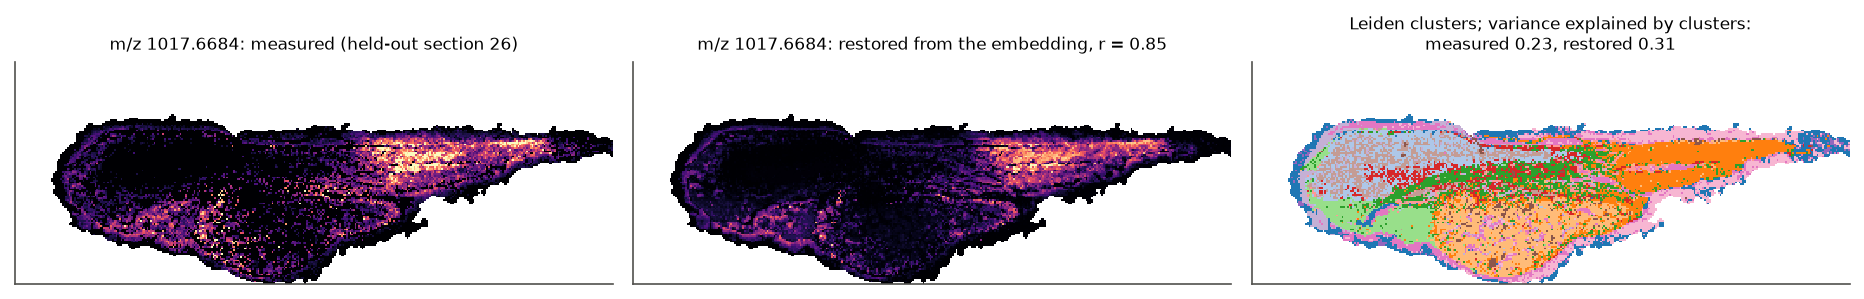
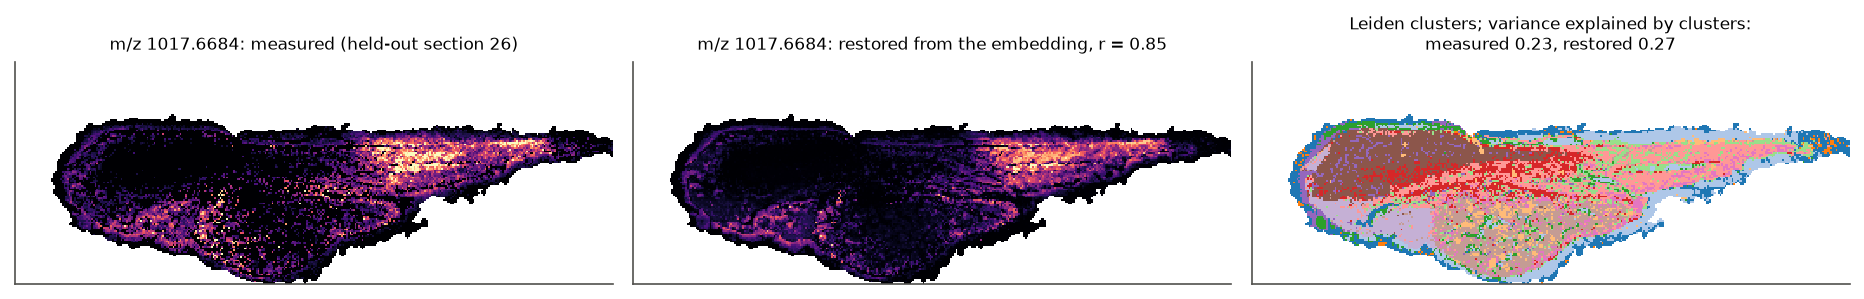
Example figures of section 3 with splitting of chains; pin pynndescent<0.7 (breaks sc.pp.neighbors of scanpy 1.12.4)
Claude-Session: https://claude.ai/code/session_01FXoeyATFVqF4whg9rVjNnw

Changed region(s): [[0.6845, 0.3913, 0.9957, 0.9632], [0.8712, 0.1204, 0.9024, 0.1505]]

diff --git a/Tutorial.md b/Tutorial.md
@@ -237,6 +237,7 @@ Several calls in this tutorial behave differently, or fail, depending on the ins
 | STalign | `STalign.LDDMM`, `transform_points_source_to_target` (2-7) | Version 2.0 (Oct 2026) keeps the API (the result is still a dict with `"A"`, `"v"`, `"xv"`) but changes defaults: affine pre-fit, `sigmaR` and step sizes chosen from the data, `niter` 2000 by default, exact inverse for source-to-target transforms. Results differ from 1.0 | To reproduce 1.x results (e.g. the LBA): `LDDMM(..., legacy_defaults=True)` and `transform_points_source_to_target(..., exact_inverse=False)`, or install `@v1.0.1`. The unpinned install command in this section gets the newest version |
 | scanpy | `sc.tl.leiden(..., flavor="igraph", n_iterations=2)` (3-3) | `flavor` exists from scanpy 1.10; the default backend is moving from `leidenalg` to `igraph` | With scanpy < 1.10 drop `flavor` and `n_iterations`; set `random_state` in all versions |
 | scanpy | `sc.pp.combat(..., covariates=...)` (2-6) | Tested with 1.12: categorical covariates are coded with one column per level next to one column per batch, which makes the design singular | Pass covariates as numeric 0/1 columns, e.g. from `formulaic.model_matrix("~ condition", meta)` without the intercept |
+| pynndescent | `sc.pp.neighbors(...)` (3-2, 3-3) | With pynndescent 0.7.0 (released 27 Oct 2026), `sc.pp.neighbors` of scanpy 1.12.4 fails with `'csr_array' object has no attribute 'getnnz'` once the data are large enough for approximate neighbours (tens of thousands of pixels); small data sets use exact neighbours and are not affected | Install `pynndescent<0.7` (pinned in `envs/msi-analysis.yml`) until scanpy supports it |
 | harmonypy | `run_harmony(...).Z_corr` (3-2) | Orientation (components x cells or cells x components) differs between versions | Check the shape against `(n_obs, n_components)` as in the code of 3-2 |
 | zarr | `uMAIA.ut.tools.to_zarr`, `to_zarr_normalised` (2-4, 2-6); reading the stores (2-5, 2-9) | uMAIA writes with the zarr 2 API (`create_dataset`), which zarr 3 removed; uMAIA pins zarr 2.16.0, EUCLID's constraints 2.14.2, `msi-analysis` is unpinned (zarr 3) | Write the stores in `msi-umaia`. Reading them (`zarr.open`, `group_keys()`, `array_keys()`) works with both zarr 2 and 3. SpatialData (2-9) requires zarr 3, so keep it in `msi-analysis` |
 | scikit-image | `remove_small_objects(min_size=)`, `remove_small_holes(area_threshold=)` | Deprecated in 0.26 in favour of `max_size` (which removes objects of size <= instead of <); `max_size` does not exist before 0.26 | The mask code in 2-2 uses `scipy.ndimage`, which is version-independent |
@@ -1655,10 +1656,10 @@ keep = (morans.mean(axis=1) > 0.4) & (dropouts < 4) & (score > 0)
 selected = keep.index[keep]                    # the features used for the embedding (3-2)
 ```
 
-On the three zebrafish sections of 1-5, preprocessed as for the figures of section 2 (5,457 features detected in at least 5% of the tissue pixels of one section, TIC-normalized), the score behaves exactly like this: multiplying all intensities by a constant changes the fraction of features with a positive score from almost all to almost none (Figure 3-1, left). Separate criteria do not have this problem. 942 features have a mean Moran's I above 0.4 and are detected in at least 5% of the tissue pixels of every section (right). The figures below use 941 of them; one is kept out of the embedding to be restored from it in 3-4.
+On the three zebrafish sections of 1-5, preprocessed as for the figures of section 2 (5,486 features detected in at least 5% of the tissue pixels of one section, TIC-normalized), the score behaves exactly like this: multiplying all intensities by a constant changes the fraction of features with a positive score from almost all to almost none (Figure 3-1, left). Separate criteria do not have this problem. 944 features have a mean Moran's I above 0.4 and are detected in at least 5% of the tissue pixels of every section (right). The figures below use 943 of them; one is kept out of the embedding to be restored from it in 3-4.
 
 ![Feature selection](figures/fig_3-1_features.png)
-*Figure 3-1. Left: fraction of the 5,457 zebrafish features with a positive LBA score after all intensities were multiplied by a constant; the cutoff `score > 0` selects almost all or almost none of them depending on the scale. Right: mean Moran's I against the lowest detection fraction over the three sections; the selected features (orange) pass both criteria (`scripts/make_analysis_figures.py`).*
+*Figure 3-1. Left: fraction of the 5,486 zebrafish features with a positive LBA score after all intensities were multiplied by a constant; the cutoff `score > 0` selects almost all or almost none of them depending on the scale. Right: mean Moran's I against the lowest detection fraction over the three sections; the selected features (orange) pass both criteria (`scripts/make_analysis_figures.py`).*
 
 ### 3-2 Dimensionality reduction and data integration
 <sub><a href="#top">(Back to top)</a></sub></br>
@@ -1733,7 +1734,7 @@ sc.tl.leiden(adata, resolution=2.0, flavor="igraph", n_iterations=2, key_added="
 ```
 With millions of pixels, subsample for the neighbor graph and transfer labels with a classifier, or use `n_neighbors` ~15 and a GPU implementation (rapids-singlecell). Validate such classifiers on entire held-out animals (and, if possible, acquisition runs), never on randomly held-out pixels: neighbouring pixels are nearly identical, so random splits overestimate accuracy. Report accuracy per held-out animal and per cluster.
 
-The resolution of 2.0 above is the LBA-scale setting; the number of clusters it gives depends on the data, the neighbour graph and the preprocessing, not only on the number of pixels. For the three zebrafish sections (57,000 pixels), resolution 0.5 gives 14 clusters. Whatever resolution you choose, check that the clusters are stable under small changes, spatially coherent, recur in independent samples and can be interpreted. They follow the anatomy of the embryo and recur in all three sections (Figure 3-3). Two clusters (0 and 8) form the outer rim of the tissue, and their marker ions (Figure 3-5) are background ions: in section 24, m/z 402.17 is about 8 times and m/z 885.04 about 4 times more intense off tissue than inside the embryo, while PC 34:1 [M+H]+ reaches only 8% of its inner level in these rim pixels. This is the rim of delocalized signal discussed in 2-2. Inspect such clusters, and remove them or tighten the mask, before interpreting them as tissue.
+The resolution of 2.0 above is the LBA-scale setting; the number of clusters it gives depends on the data, the neighbour graph and the preprocessing, not only on the number of pixels. For the three zebrafish sections (57,000 pixels), resolution 0.5 gives 13 clusters. Whatever resolution you choose, check that the clusters are stable under small changes, spatially coherent, recur in independent samples and can be interpreted. They follow the anatomy of the embryo and recur in all three sections (Figure 3-3). Two clusters (0 and 2) form the outer rim of the tissue, and their marker ions (Figure 3-5) are background ions: in section 24, m/z 402.17 is about 8 times and m/z 885.04 about 4 times more intense off tissue than inside the embryo, while PC 34:1 [M+H]+ reaches only 8% of its inner level in these rim pixels. This is the rim of delocalized signal discussed in 2-2. Inspect such clusters, and remove them or tighten the mask, before interpreting them as tissue.
 
 ![Leiden clusters](figures/fig_3-3_clusters.png)
 *Figure 3-3. Leiden clusters (resolution 0.5) on the Harmony-corrected NMF embedding, in the three zebrafish sections (`scripts/make_analysis_figures.py`).*
@@ -1815,7 +1816,7 @@ restored = model.predict(adata.obsm["X_harmony"])           # keep in a separate
 print("held-out r:", np.corrcoef(restored[~train], y[~train])[0, 1])
 ```
 
-Figure 3-4 does this for a well-detected zebrafish lipid that was left out of the embedding. Trained on sections 22 and 24, the restored image of section 26 correlates well with the measured one (r = 0.85), which is what the LBA's validation criterion checks. But the restored image is smoother, and more of its variance is explained by the clusters (31%, against 23% for the measured values): the prediction carries the structure of the embedding, which is the circularity described below. Note also that NMF and Harmony were fitted on all three sections, including the held-out one, so r checks the regressor, not a fully independent prediction; for that, fit the whole chain (feature selection, scaling, NMF, integration, regressor) without the held-out sample.
+Figure 3-4 does this for a well-detected zebrafish lipid that was left out of the embedding. Trained on sections 22 and 24, the restored image of section 26 correlates well with the measured one (r = 0.85), which is what the LBA's validation criterion checks. But the restored image is smoother, and more of its variance is explained by the clusters (27%, against 23% for the measured values): the prediction carries the structure of the embedding, which is the circularity described below. Note also that NMF and Harmony were fitted on all three sections, including the held-out one, so r checks the regressor, not a fully independent prediction; for that, fit the whole chain (feature selection, scaling, NMF, integration, regressor) without the held-out sample.
 
 ![Restoration from the embedding](figures/fig_3-4_restoration.png)
 *Figure 3-4. Restoration of m/z 1017.6684 in the held-out zebrafish section 26 from the Harmony-corrected NMF embedding (gradient-boosted trees trained on sections 22 and 24): measured values, restored values, and the Leiden clusters of Figure 3-3 (`scripts/make_analysis_figures.py`).*
